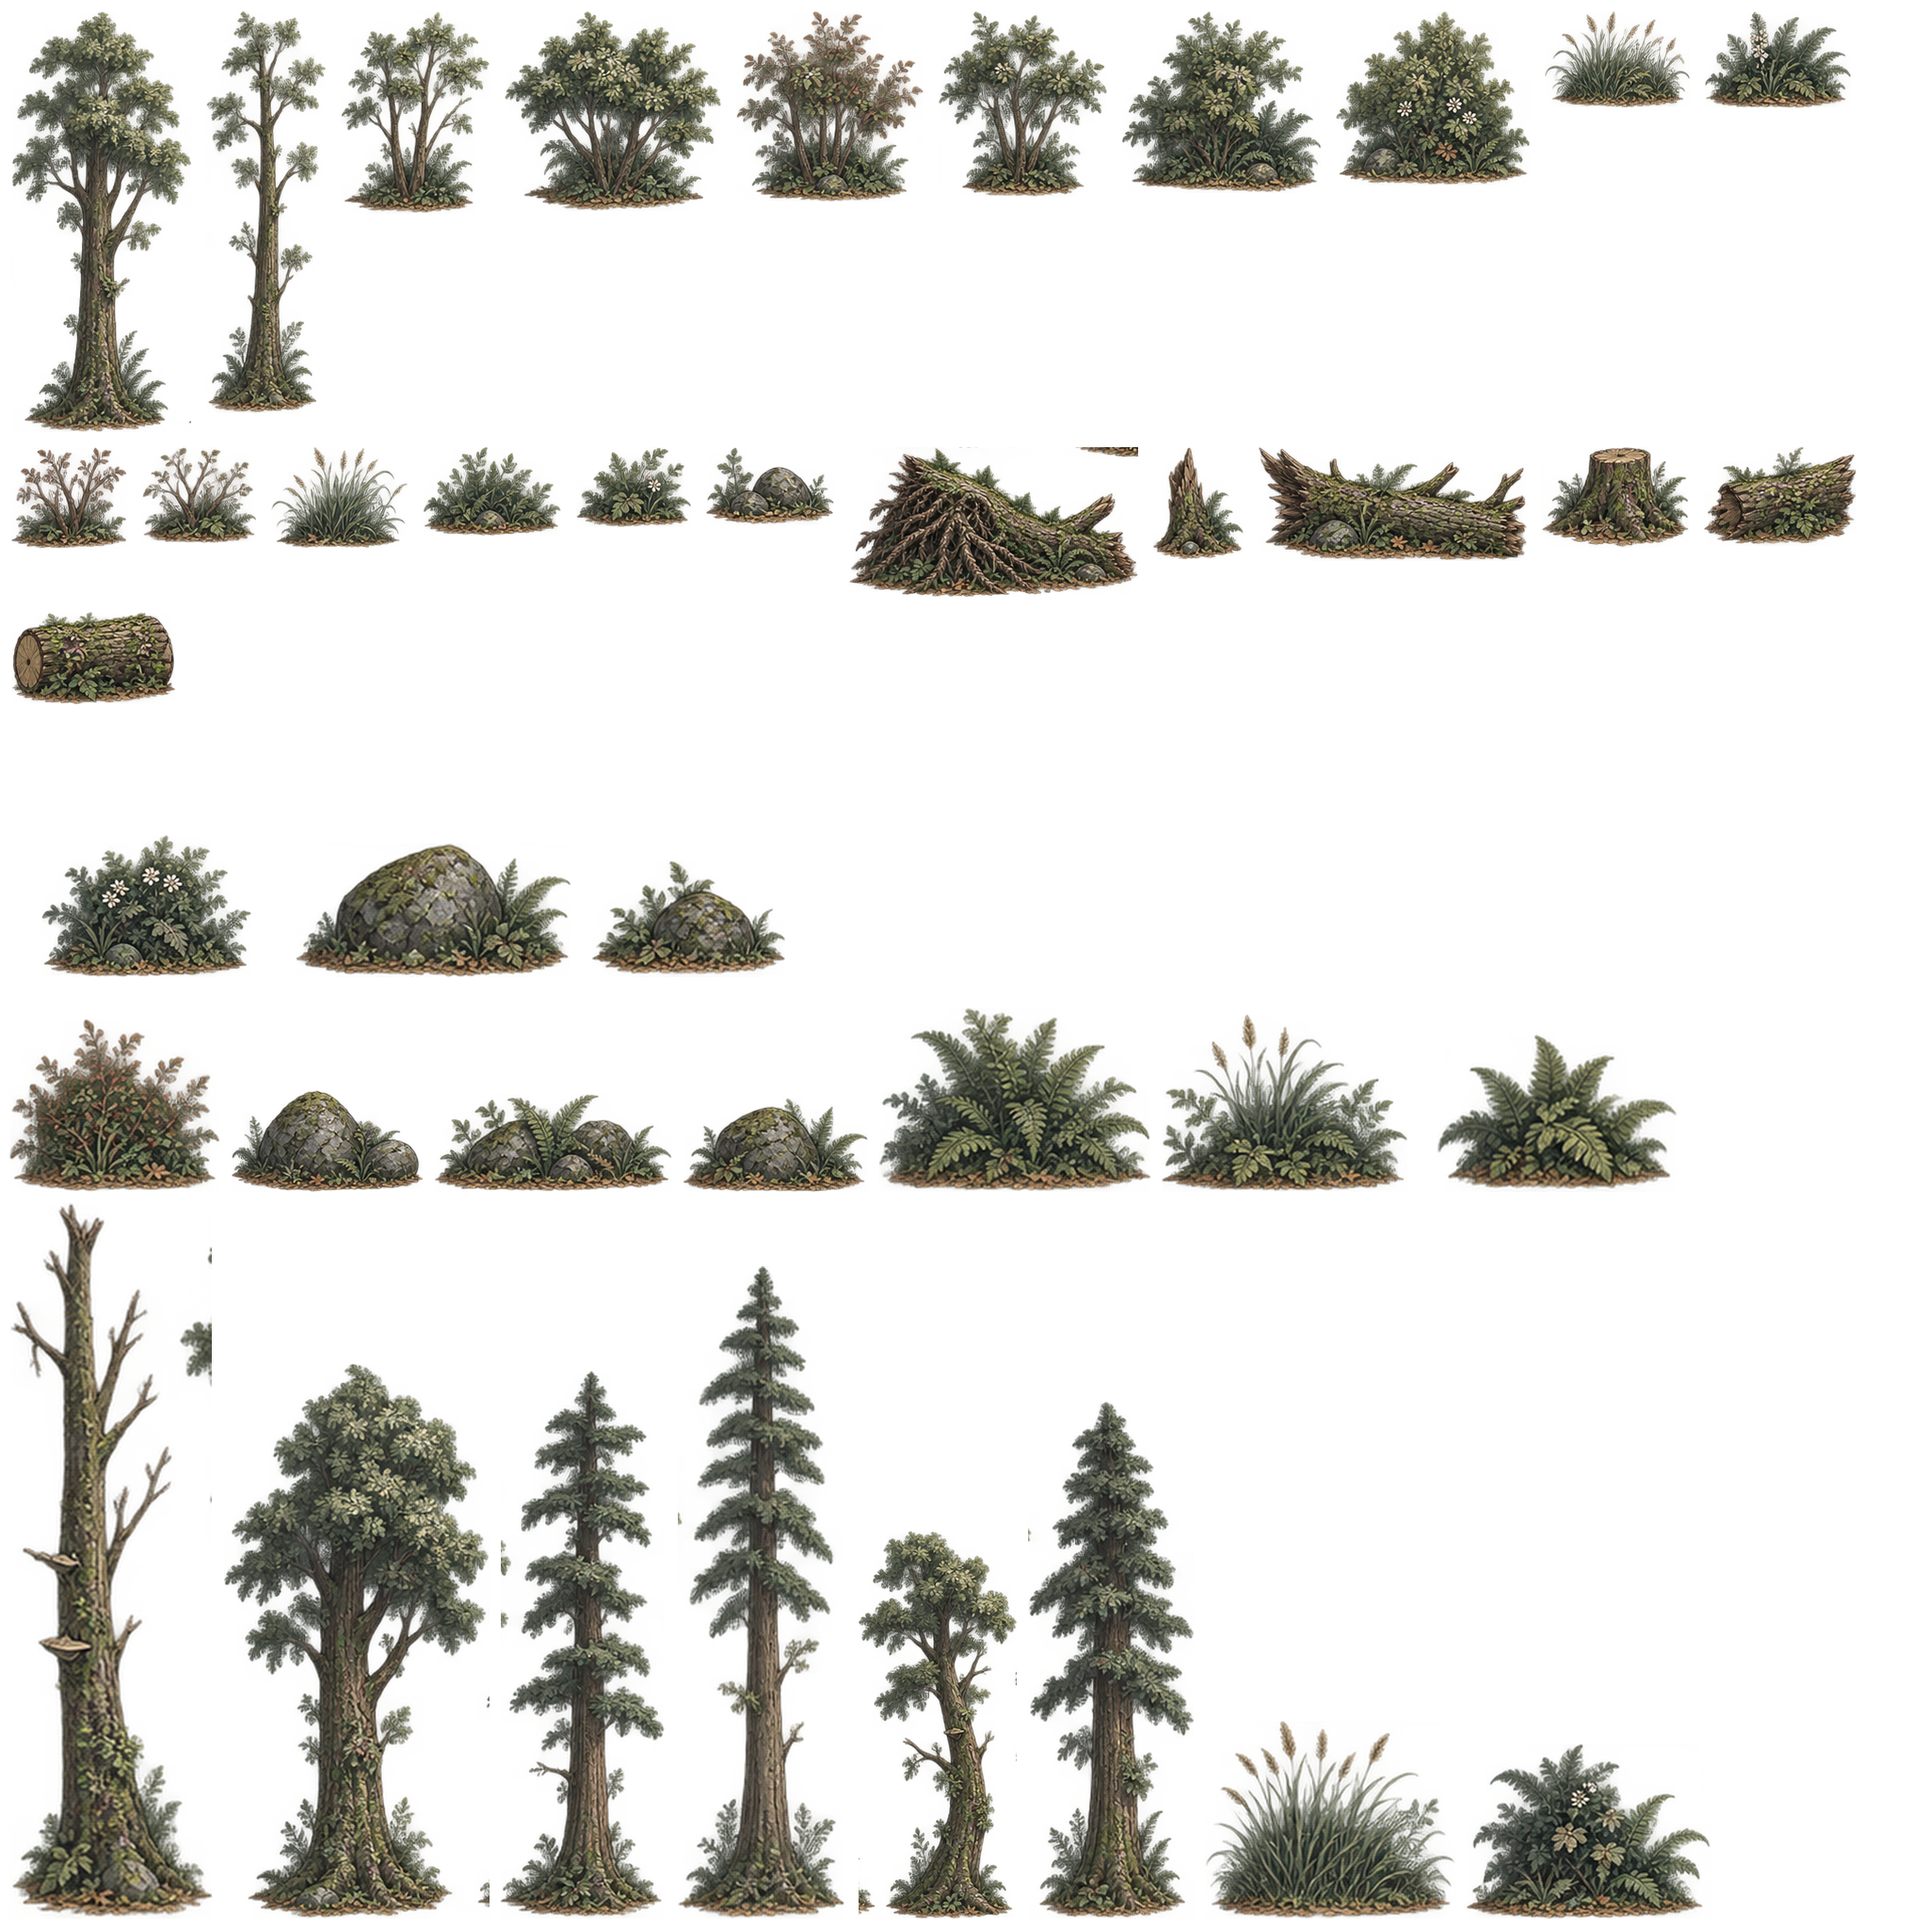
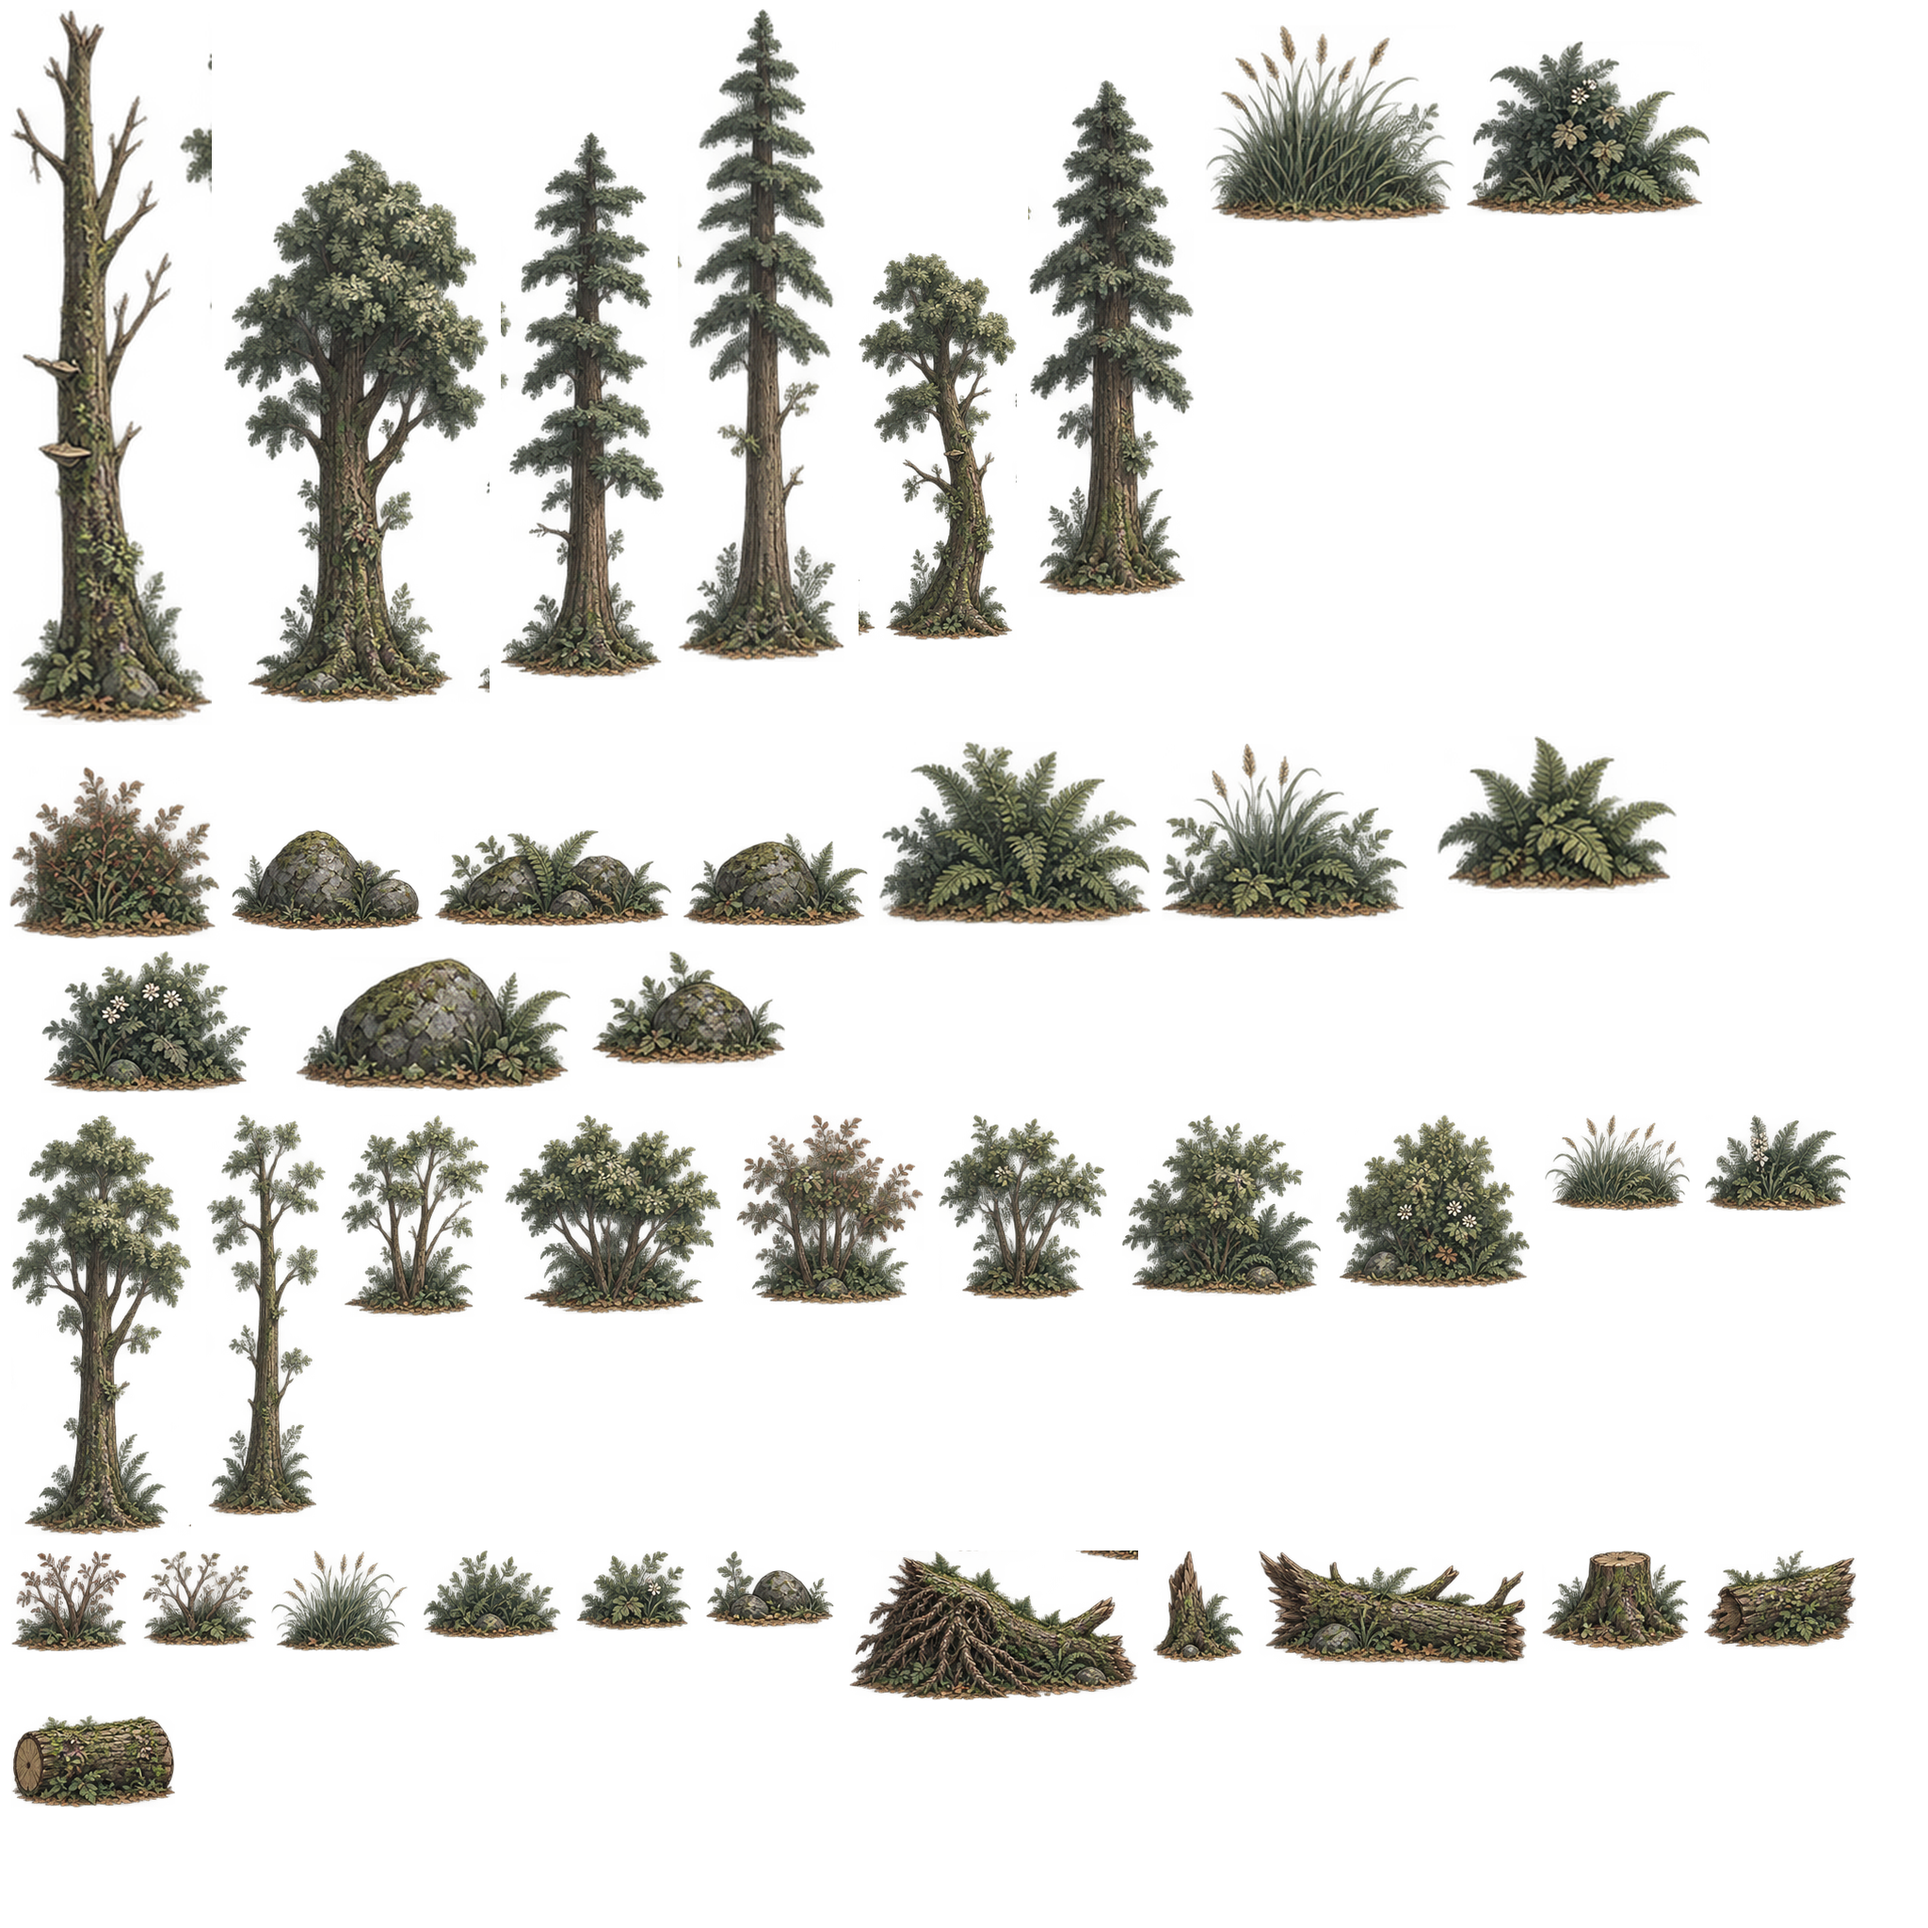
Add files via upload

diff --git a/sidescroll.js b/sidescroll.js
@@ -1,7 +1,7 @@
 (() => {
   'use strict';
 
-  // SideScroll v0.2.46: woodland style refresh + expanded procedural dressing.
+  // SideScroll v0.2.47: corrected dressing-atlas Y mapping; style refresh + mid-height procedural foliage.
 
   const queryParams = new URLSearchParams(window.location.search);
   const PLAYER_MODE = queryParams.get('mode') === 'player';
@@ -731,7 +731,7 @@
   // v1.8.81: forest dressing now comes from one authored atlas.
   // This removes the old per-file fallback path which could substitute the
   // full woodland source sheet when an individual PNG failed to load.
-  textures.dressingAtlas = createImageTexture('sidescroll-dressing-atlas.png?v=0.2.46', 'SideScroll dressing atlas');
+  textures.dressingAtlas = createImageTexture('sidescroll-dressing-atlas.png?v=0.2.47', 'SideScroll dressing atlas');
   const assetUv = {
     tree06: { scale: [0.107421875, 0.373046875], offset: [0.003906250, 0.623046875] },
     tree02: { scale: [0.139648438, 0.362304688], offset: [0.115234375, 0.633789062] },
@@ -751,28 +751,28 @@
     ground08: { scale: [0.144531250, 0.075683594], offset: [0.003906250, 0.432128906] },
     ground03: { scale: [0.144531250, 0.074707031], offset: [0.152343750, 0.433105469] },
     ground10: { scale: [0.113281250, 0.062500000], offset: [0.300781250, 0.445312500] },
-    tree07: { scale: [0.097167969, 0.222167969], offset: [0.003906250, 0.003906250] },
-    tree08: { scale: [0.065917969, 0.212402344], offset: [0.104980469, 0.003906250] },
-    midtree01: { scale: [0.081054688, 0.108886719], offset: [0.174804688, 0.003906250] },
-    midtree02: { scale: [0.116210938, 0.107421875], offset: [0.259765625, 0.003906250] },
-    midtree03: { scale: [0.101074219, 0.102539062], offset: [0.379882812, 0.003906250] },
-    midtree04: { scale: [0.091308594, 0.100097656], offset: [0.484863281, 0.003906250] },
-    midtree05: { scale: [0.106933594, 0.098144531], offset: [0.580078125, 0.003906250] },
-    midtree06: { scale: [0.104492188, 0.094238281], offset: [0.690917969, 0.003906250] },
-    ground13: { scale: [0.079101562, 0.053710938], offset: [0.799316406, 0.003906250] },
-    ground14: { scale: [0.079589844, 0.054199219], offset: [0.882324219, 0.003906250] },
-    ground15: { scale: [0.063964844, 0.056640625], offset: [0.003906250, 0.229980469] },
-    ground16: { scale: [0.062988281, 0.053710938], offset: [0.071777344, 0.229980469] },
-    ground17: { scale: [0.074707031, 0.056152344], offset: [0.138671875, 0.229980469] },
-    ground18: { scale: [0.075683594, 0.049804688], offset: [0.217285156, 0.229980469] },
-    ground19: { scale: [0.063476562, 0.045410156], offset: [0.296875000, 0.229980469] },
-    ground20: { scale: [0.070312500, 0.044433594], offset: [0.364257812, 0.229980469] },
-    ground21: { scale: [0.153808594, 0.081542969], offset: [0.438476562, 0.229980469] },
-    ground22: { scale: [0.050781250, 0.062011719], offset: [0.596191406, 0.229980469] },
-    ground23: { scale: [0.143066406, 0.062988281], offset: [0.650878906, 0.229980469] },
-    ground24: { scale: [0.080078125, 0.056152344], offset: [0.797851562, 0.229980469] },
-    ground25: { scale: [0.083007812, 0.055175781], offset: [0.881835938, 0.229980469] },
-    ground26: { scale: [0.088867188, 0.051757812], offset: [0.003906250, 0.315429688] },
+    tree07: { scale: [0.097167969, 0.222167969], offset: [0.003906250, 0.201660156] },
+    tree08: { scale: [0.065917969, 0.212402344], offset: [0.104980469, 0.211425781] },
+    midtree01: { scale: [0.081054688, 0.108886719], offset: [0.174804688, 0.314941406] },
+    midtree02: { scale: [0.116210938, 0.107421875], offset: [0.259765625, 0.316406250] },
+    midtree03: { scale: [0.101074219, 0.102539062], offset: [0.379882812, 0.321289062] },
+    midtree04: { scale: [0.091308594, 0.100097656], offset: [0.484863281, 0.323730469] },
+    midtree05: { scale: [0.106933594, 0.098144531], offset: [0.580078125, 0.325683594] },
+    midtree06: { scale: [0.104492188, 0.094238281], offset: [0.690917969, 0.329589844] },
+    ground13: { scale: [0.079101562, 0.053710938], offset: [0.799316406, 0.370117188] },
+    ground14: { scale: [0.079589844, 0.054199219], offset: [0.882324219, 0.369628906] },
+    ground15: { scale: [0.063964844, 0.056640625], offset: [0.003906250, 0.141113281] },
+    ground16: { scale: [0.062988281, 0.053710938], offset: [0.071777344, 0.144042969] },
+    ground17: { scale: [0.074707031, 0.056152344], offset: [0.138671875, 0.141601562] },
+    ground18: { scale: [0.075683594, 0.049804688], offset: [0.217285156, 0.147949219] },
+    ground19: { scale: [0.063476562, 0.045410156], offset: [0.296875000, 0.152343750] },
+    ground20: { scale: [0.070312500, 0.044433594], offset: [0.364257812, 0.153320312] },
+    ground21: { scale: [0.153808594, 0.081542969], offset: [0.438476562, 0.116210938] },
+    ground22: { scale: [0.050781250, 0.062011719], offset: [0.596191406, 0.135742188] },
+    ground23: { scale: [0.143066406, 0.062988281], offset: [0.650878906, 0.134765625] },
+    ground24: { scale: [0.080078125, 0.056152344], offset: [0.797851562, 0.141601562] },
+    ground25: { scale: [0.083007812, 0.055175781], offset: [0.881835938, 0.142578125] },
+    ground26: { scale: [0.088867188, 0.051757812], offset: [0.003906250, 0.060546875] },
   };
   const assetDimensions = {
     tree01: [237, 955],
@@ -3806,7 +3806,7 @@
     return {
       format:'SideScrollPuzzle',
       formatVersion:1,
-      appVersion:'0.2.46',
+      appVersion:'0.2.47',
       exportedAt:new Date().toISOString(),
       marker:{ id:marker.id, group:marker.group, x:marker.x, local:markerIsUserCreated(marker) },
       definition:deepCopy(def),
@@ -3825,7 +3825,7 @@
       const def = groupDefinition(groupId);
       if (!groupId || !def) return;
       payload = {
-        format:'SideScrollPuzzleTemplate', formatVersion:1, appVersion:'0.2.46', exportedAt:new Date().toISOString(),
+        format:'SideScrollPuzzleTemplate', formatVersion:1, appVersion:'0.2.47', exportedAt:new Date().toISOString(),
         group:groupId, definition:deepCopy(def), savedStart:deepCopy(templateStartForGroup(groupId)),
         source:groupIsUserCreated(groupId) ? 'local-library' : 'library'
       };
@@ -3915,7 +3915,7 @@
     return {
       format:'SideScrollGameDesign',
       formatVersion:1,
-      appVersion:'0.2.46',
+      appVersion:'0.2.47',
       exportedAt:new Date().toISOString(),
       purpose:'Complete authoring handoff: scene placement, puzzle placement/setup, reusable asset settings, collectables and camera tuning.',
       world:{

diff --git a/play.html b/play.html
@@ -9,7 +9,7 @@
   <meta name="theme-color" content="#081015">
   <link rel="manifest" href="manifest.json">
   <link rel="apple-touch-icon" href="icon-192.png">
-  <link rel="stylesheet" href="style.css?v=0.2.46">
+  <link rel="stylesheet" href="style.css?v=0.2.45">
   <title>SideScroll</title>
 </head>
 <body class="modular-game ss-standalone-game" data-game-id="game-16">
@@ -279,11 +279,11 @@
     </section>
   </main>
 
-  <script src="site-config.js?v=0.2.46"></script>
-  <script src="core.js?v=0.2.46"></script>
-  <script src="walk-rig.js?v=0.2.46"></script>
-  <script src="puzzle-groups.js?v=0.2.46"></script>
-  <script src="baked-game-design.js?v=0.2.46"></script>
-  <script src="sidescroll.js?v=0.2.46"></script>
+  <script src="site-config.js?v=0.2.45"></script>
+  <script src="core.js?v=0.2.45"></script>
+  <script src="walk-rig.js?v=0.2.45"></script>
+  <script src="puzzle-groups.js?v=0.2.45"></script>
+  <script src="baked-game-design.js?v=0.2.45"></script>
+  <script src="sidescroll.js?v=0.2.45"></script>
 </body>
 </html>

diff --git a/walk-lab.html b/walk-lab.html
@@ -9,7 +9,7 @@
   <meta name="theme-color" content="#e7dbd2">
   <link rel="manifest" href="manifest.json">
   <link rel="apple-touch-icon" href="icon-192.png">
-  <link rel="stylesheet" href="style.css?v=0.2.46">
+  <link rel="stylesheet" href="style.css?v=0.2.45">
   <title>Walk Lab · SideScroll</title>
 </head>
 <body class="modular-game ss-standalone-game" data-game-id="game-17">
@@ -78,9 +78,9 @@
     </section>
   </main>
 
-  <script src="site-config.js?v=0.2.46"></script>
-  <script src="core.js?v=0.2.46"></script>
-  <script src="walk-rig.js?v=0.2.46"></script>
-  <script src="walk-lab.js?v=0.2.46"></script>
+  <script src="site-config.js?v=0.2.45"></script>
+  <script src="core.js?v=0.2.45"></script>
+  <script src="walk-rig.js?v=0.2.45"></script>
+  <script src="walk-lab.js?v=0.2.45"></script>
 </body>
 </html>

diff --git a/index.html b/index.html
@@ -9,7 +9,7 @@
   <meta name="theme-color" content="#172026">
   <link rel="manifest" href="manifest.json">
   <link rel="apple-touch-icon" href="icon-192.png">
-  <link rel="stylesheet" href="style.css?v=0.2.46">
+  <link rel="stylesheet" href="style.css?v=0.2.45">
   <title>SideScroll</title>
 </head>
 <body class="modular-home ss-home">
@@ -52,8 +52,8 @@
     </section>
   </div>
 
-  <script src="site-config.js?v=0.2.46"></script>
-  <script src="core.js?v=0.2.46"></script>
-  <script src="home.js?v=0.2.46"></script>
+  <script src="site-config.js?v=0.2.45"></script>
+  <script src="core.js?v=0.2.45"></script>
+  <script src="home.js?v=0.2.45"></script>
 </body>
 </html>

diff --git a/sw.js b/sw.js
@@ -1,4 +1,4 @@
-const CACHE = "sidescroll-v0.2.46";
+const CACHE = "sidescroll-v0.2.47";
 const APP_SHELL = [
   "./",
   "./index.html",

diff --git a/README.md b/README.md
@@ -1,10 +1,8 @@
-# SideScroll v0.2.46
+# SideScroll v0.2.47
 
-Woodland visual-polish pass.
+Fixes the v0.2.46 dressing-atlas mapping error.
 
-- Replaced the existing forest tree and ground atlas art in the same UV slots, so authored placements keep their mapping.
-- Added two new full-height tree variants (`tree07` / `tree08`).
-- Added six new mid-height woodland assets (`midtree01`–`midtree06`) and extra ground-dressing choices.
-- Added the new full trees to normal procedural tree scatter.
-- Added a dedicated mid-height procedural layer on the far side of the path plus a lighter foreground pass to increase apparent woodland density and depth.
-- Exposed the expanded tree, mid-tree and ground dressing sets in the environment editor.
+- Corrected the atlas Y-coordinate convention so existing tree and ground UVs sample their intended replacement sprites.
+- Preserves all existing tree/ground UV rectangles and authored placements.
+- Keeps the two new full-height trees and the mid-height procedural woodland layer introduced in v0.2.46.
+- Keeps the expanded dressing choices in the environment editor.
